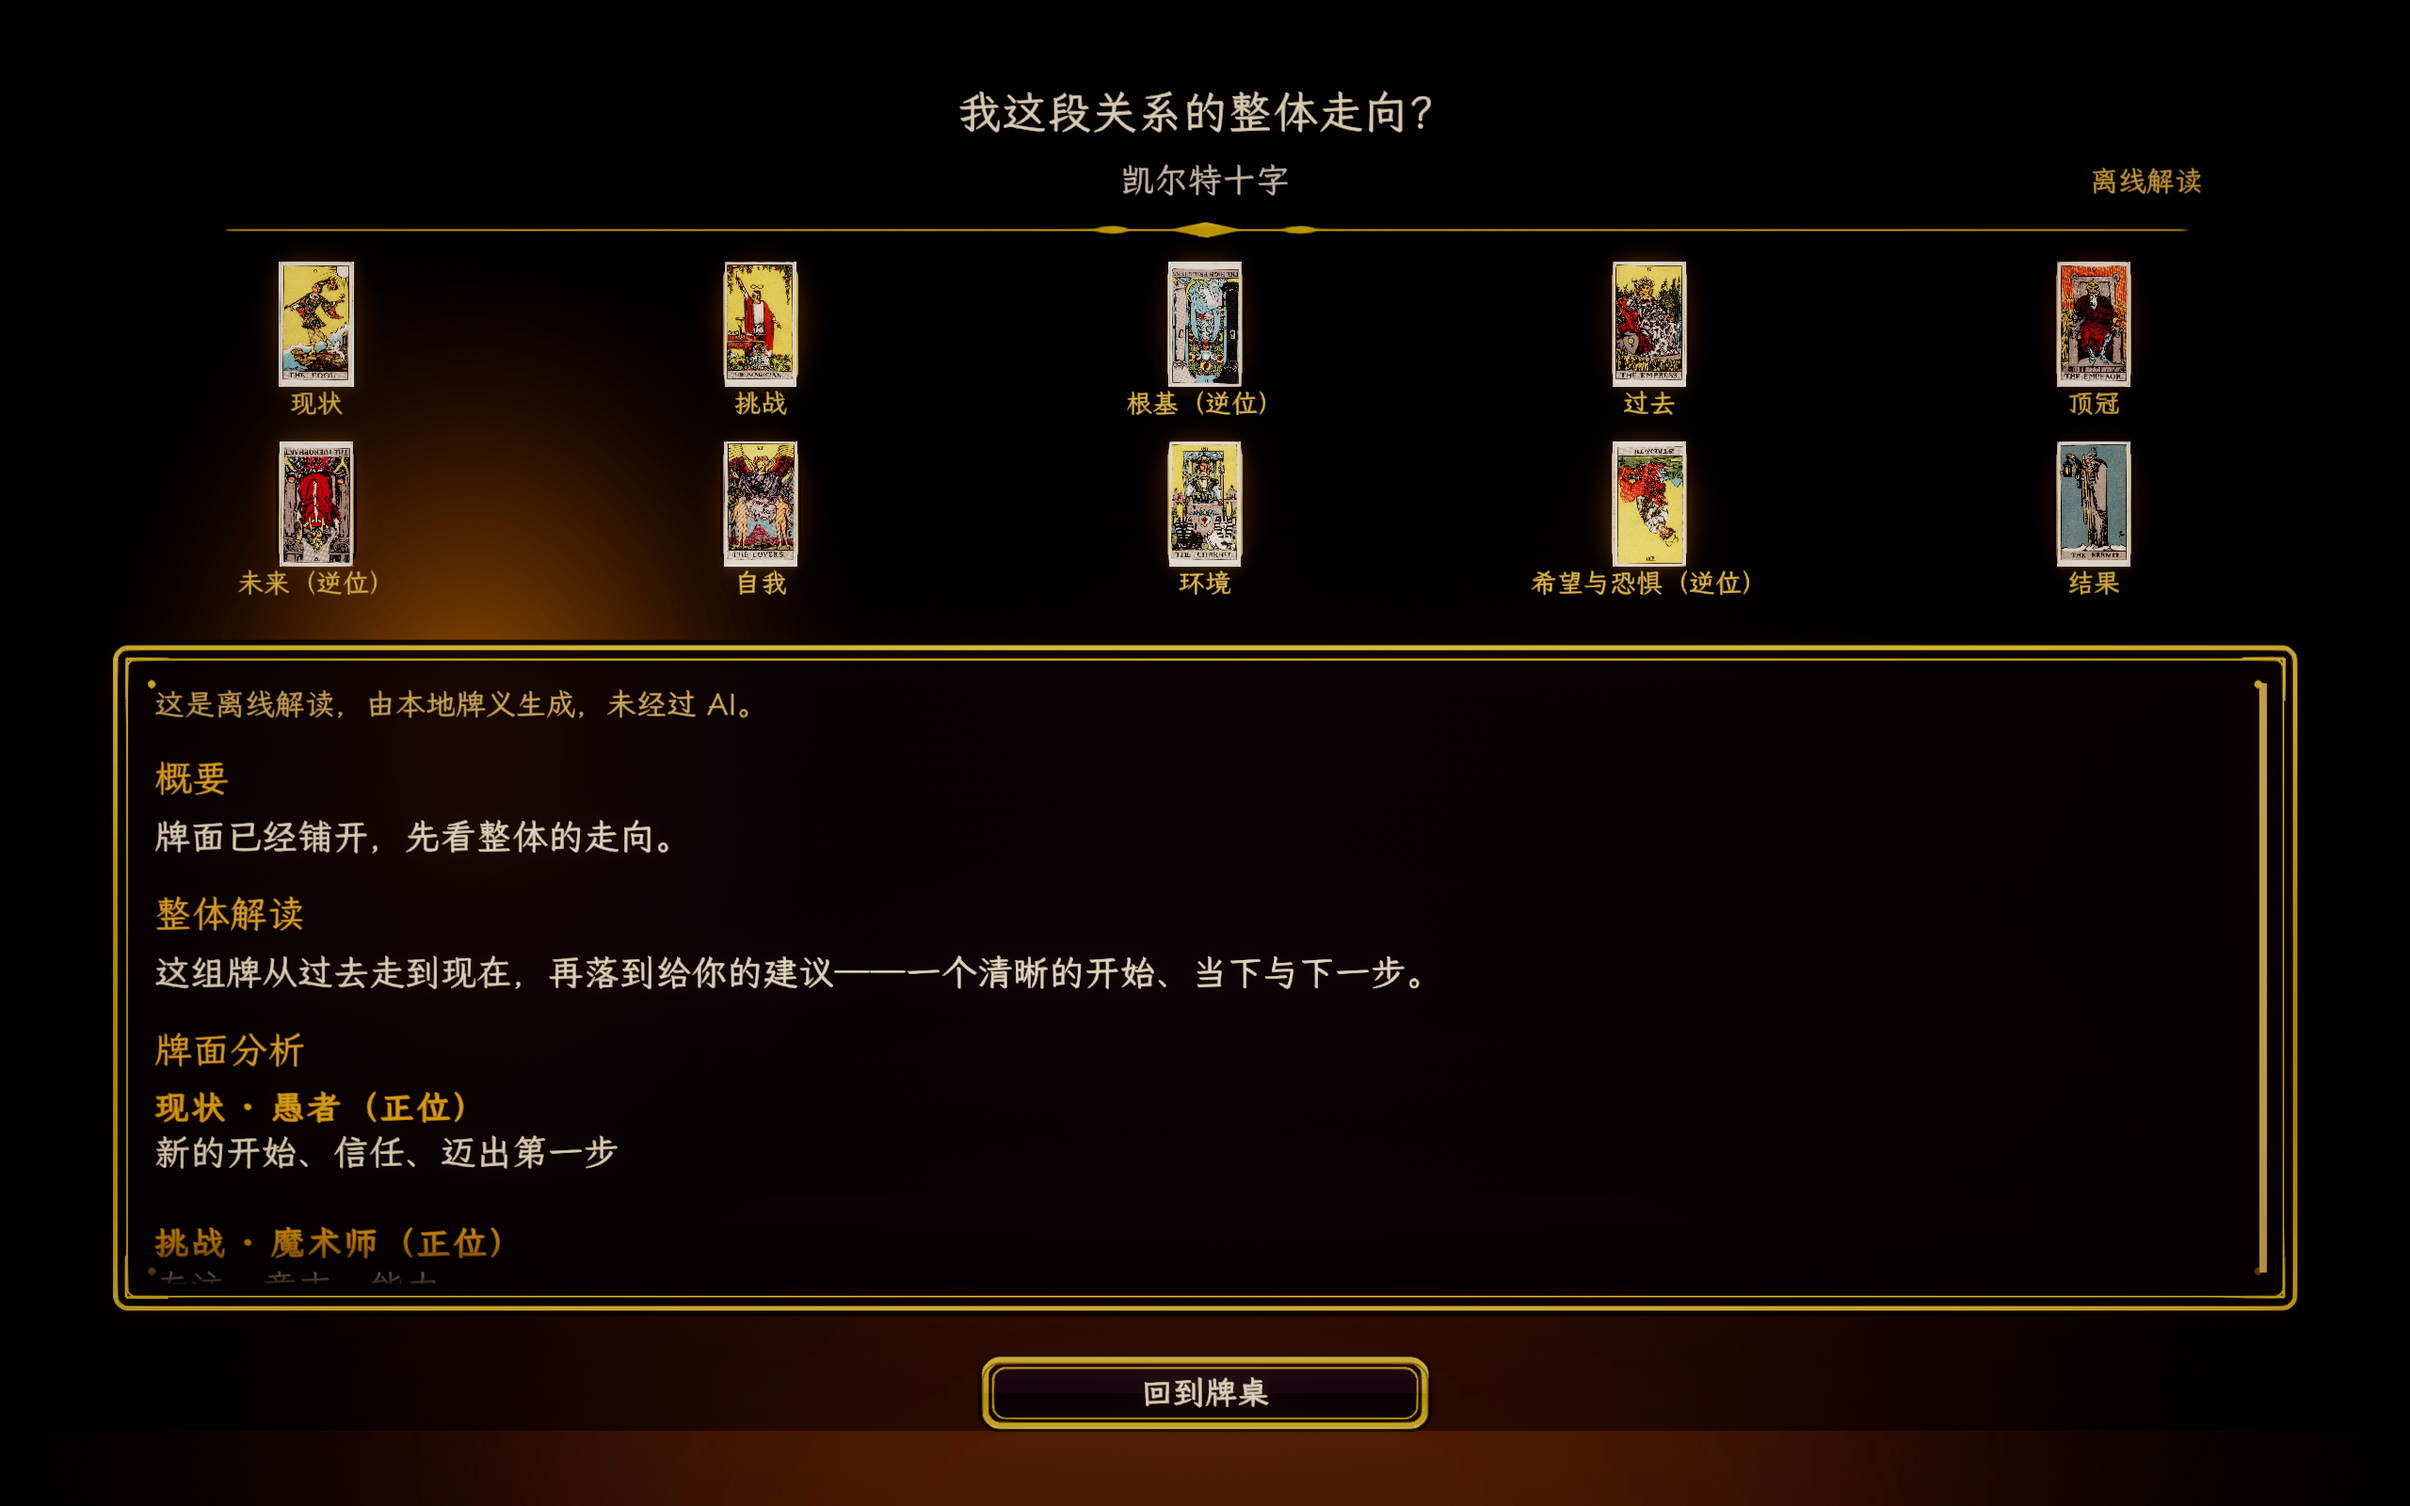
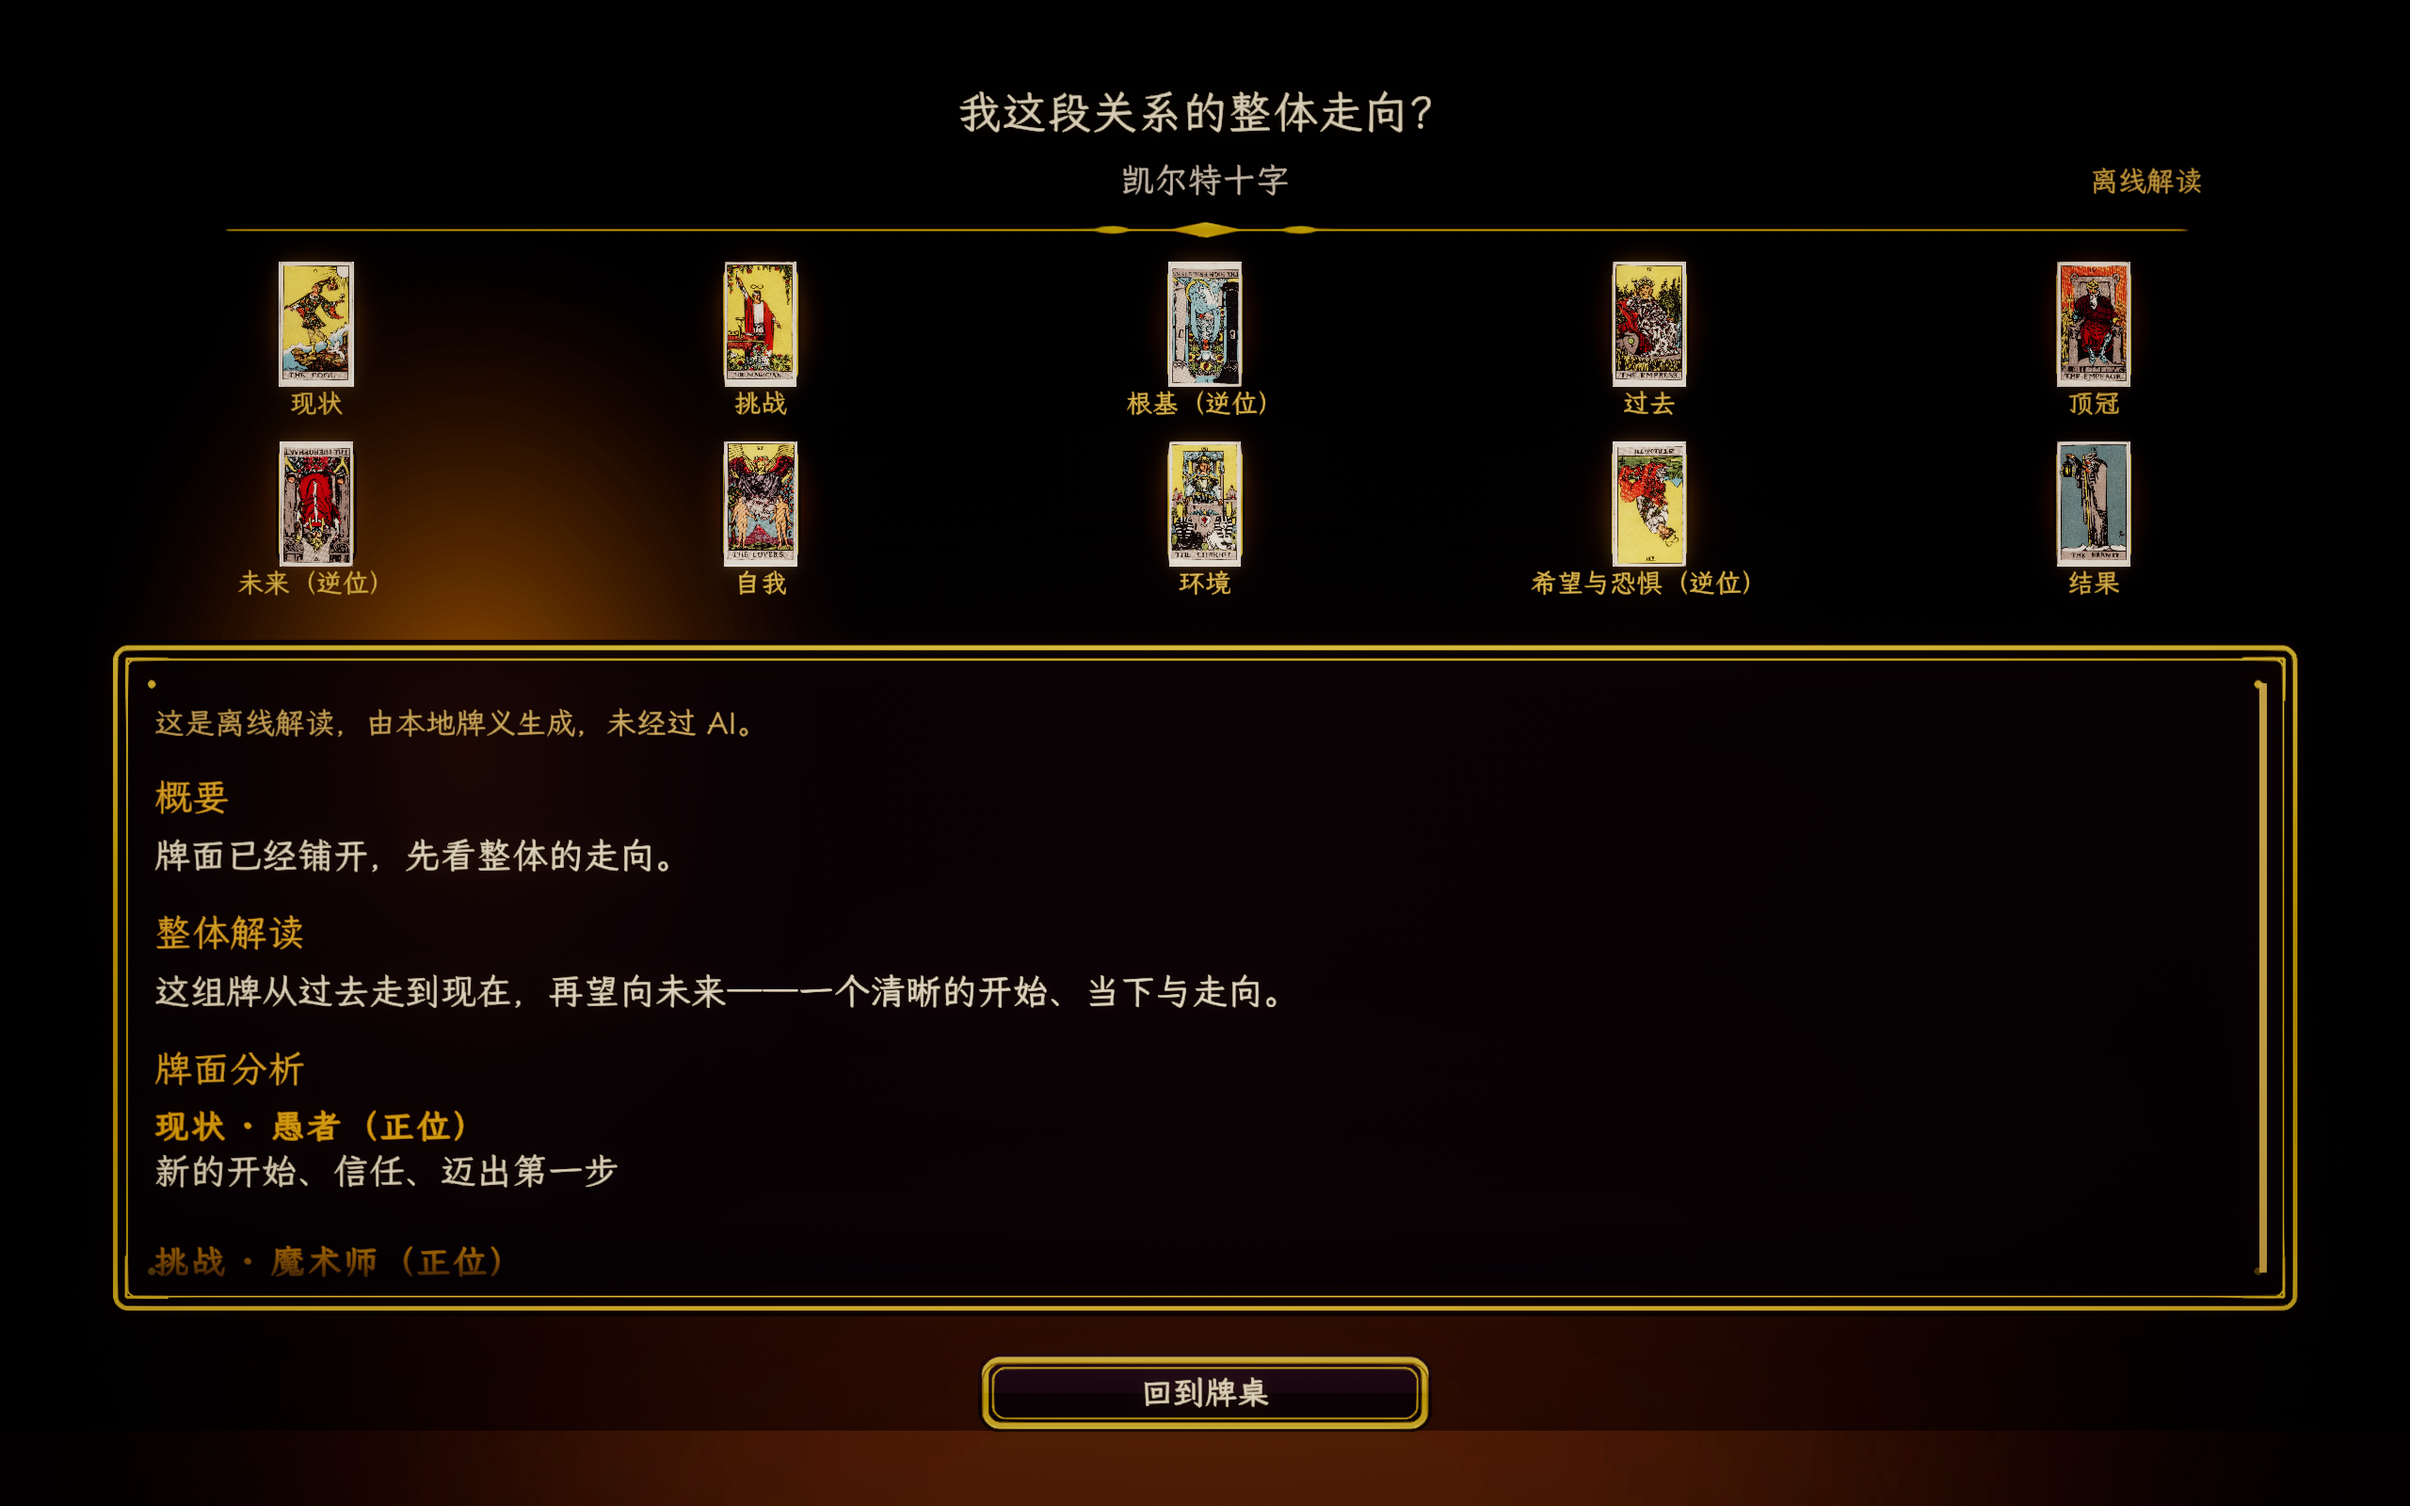
fix(unity): let the offline notice clear the frame's corner dot
The reading frame's corner dot sits about 30 canvas units in from the panel
corner and content starts at 32. Section headings carry a 10-unit top margin, so
an online reading clears it, but the offline notice had none - so every offline
reading's first line started 2 units from the dot. The notice now takes the same
margin as a heading, and Phase67ResultSceneStructureTests guards it against the
heading's own value rather than a literal.

The Phase 67 bootstrapper re-saved Result.unity, which also dropped six dead
serialized fields (spreadReadingPos/Size, spreadRowWidth, spreadBasePitch,
spreadMinCellScale, spreadCellY). Phase 67 replaced those knobs with
ResultSpreadLayout; only the Phase 60 bootstrapper still writes them, and it is
already on the must-not-re-run list.

Review shots: the five offline ones are refreshed, with the user's explicit
approval to overwrite them. The capture's own checks pass - 0 text pixels
outside the frame on all ten, the unmasked control at 1375, and each canvas at
its expected reading height. The other five shots also moved, because the
spread-naming commit renamed position three; refreshing those is a separate ask.

EditMode 456/456, PlayMode 75 = 72 passed + 3 skipped.

Changed region(s): [[0.0625, 0.4375, 0.5938, 0.875]]

diff --git a/UnityClient/TarotUnity/Assets/Tests/EditMode/Phase67ResultSceneStructureTests.cs b/UnityClient/TarotUnity/Assets/Tests/EditMode/Phase67ResultSceneStructureTests.cs
@@ -72,6 +72,17 @@ namespace TarotUnity.Tests.EditMode
             Assert.That(canvas.Find("WarningText"), Is.Null, "WarningText has left the footer");
         }
 
+        // Final review V1: the notice is an offline reading's first line, so it needs a section
+        // heading's top margin - without it the text starts 2 units from the frame's corner dot.
+        [Test]
+        public void TheOfflineNoticeClearsTheFrameCornerDot()
+        {
+            var notice = Content.Find("Phase67_OfflineNotice").GetComponent<TMP_Text>();
+            var heading = Content.Find("Phase7_ResultSectionSummary").GetComponent<TMP_Text>();
+            Assert.That(heading.margin.y, Is.GreaterThan(0f), "control: a section heading has a top margin");
+            Assert.That(notice.margin.y, Is.EqualTo(heading.margin.y), "the notice takes the same top margin");
+        }
+
         [Test]
         public void ThemeKeepsTheOfflineNoticeInk()
         {

diff --git a/UnityClient/TarotUnity/Assets/Editor/Phase67ResultReadingBootstrapper.cs b/UnityClient/TarotUnity/Assets/Editor/Phase67ResultReadingBootstrapper.cs
@@ -163,6 +163,9 @@ namespace TarotUnity.Editor
             notice.fontSize = 16f;
             notice.color = NoticeInk;
             notice.alignment = TextAlignmentOptions.TopLeft;
+            // The notice is the first line of an offline reading, so it needs the same top margin as a
+            // section heading - without it the text starts 2 units from the frame's corner dot.
+            notice.margin = new Vector4(0f, HeadingTopMargin, 0f, 0f);
             notice.enableWordWrapping = true;
             notice.text = ReleaseUxCopy.OfflineWarning;
             notice.transform.SetSiblingIndex(0);
